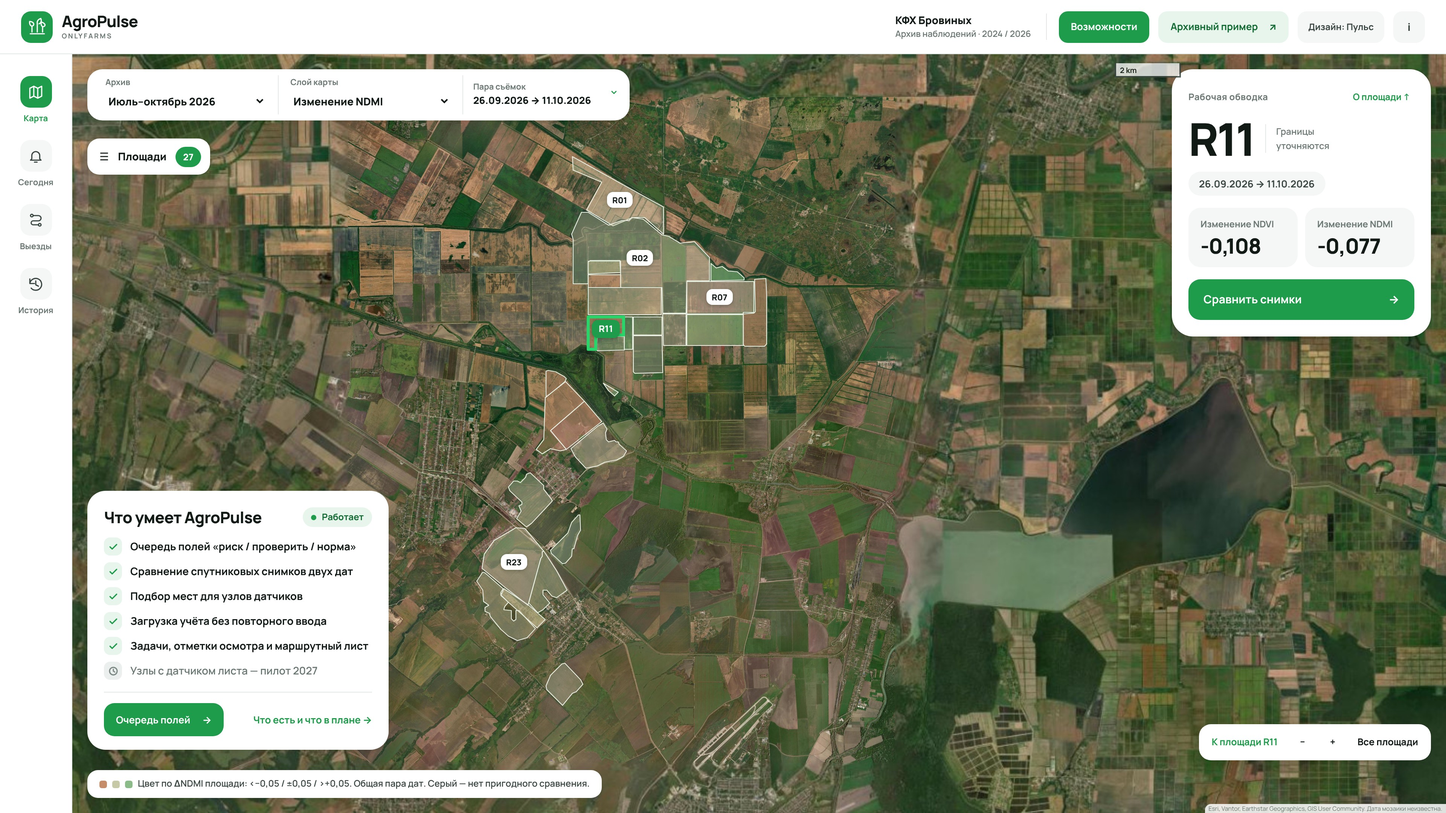
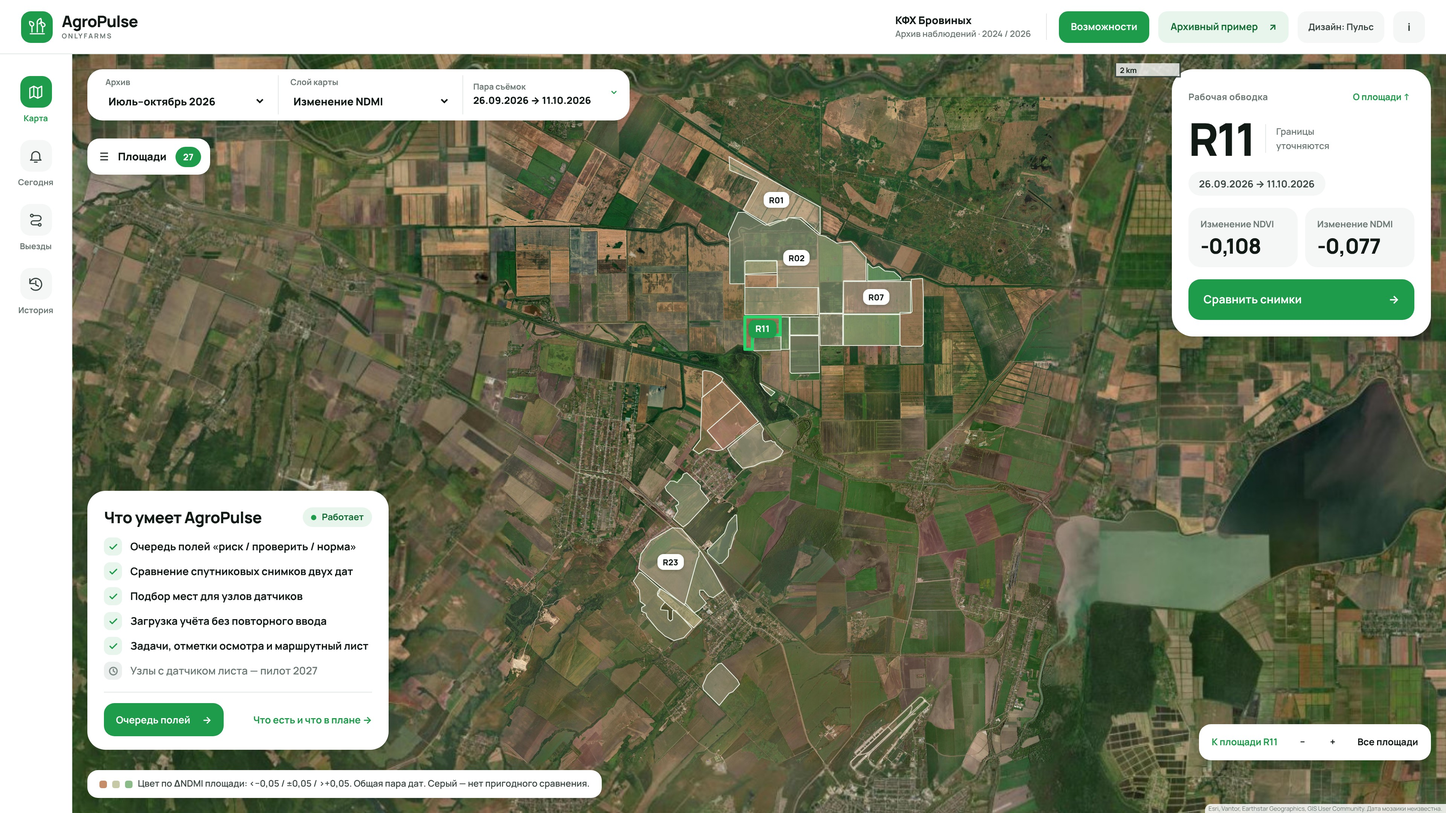
Keep all farm outlines clear of the capability card on laptop screens
The map camera ignored the Pulse capability card, so on 1280×720 it
covered 16 of 27 outlines (10 on 1366×768). map.js now adds the card's
width to the left fit padding when the card is visible; Хай-тек and
Атлас are unaffected. Verified 0 covered outlines from 1280×720 to
2560×1440, no overlaps, no console errors, full stage walk-through.

Also adds a five-minute pre-presentation checklist to NEW_LAPTOP.md and
recaptures the slide screenshots with the corrected framing.

Claude-Session: https://claude.ai/code/session_011skJBxcHVCmDy5rCEZ51dh

diff --git a/web/scouting/map.js b/web/scouting/map.js
@@ -18,7 +18,10 @@ window.ScoutingMap={create({bundle,onSelect,onSite,onLayer}){
     const top=(dock?.getBoundingClientRect().height||160)+32;
     const listOpen=document.body.classList.contains('map-list-open');
     const covered=card?Math.max(0,document.getElementById('geo-map').getBoundingClientRect().bottom-card.getBoundingClientRect().top):196;
-    const a=mobile?[20,top]:[listOpen?290:24,top],b=mobile?[20,covered+18]:[(card?.getBoundingClientRect().width||320)+44,108];
+    // Keep fields clear of the left overlay card when the design shows one (Pulse capability card).
+    const cap=document.querySelector('.capability-card'),capVisible=cap&&getComputedStyle(cap).display!=='none';
+    const capWidth=capVisible?cap.getBoundingClientRect().width+40:0;
+    const a=mobile?[20,top]:[Math.max(listOpen?290:24,capWidth),top],b=mobile?[20,covered+18]:[(card?.getBoundingClientRect().width||320)+44,108];
     const size=map.getSize(),budgets=[Math.max(0,size.x-120),Math.max(0,size.y-140)];
     for(let axis=0;axis<2;axis++){const total=a[axis]+b[axis];if(total>budgets[axis]&&total>0){const scale=budgets[axis]/total;a[axis]*=scale;b[axis]*=scale;}}
     return {paddingTopLeft:a,paddingBottomRight:b};

diff --git a/docs/NEW_LAPTOP.md b/docs/NEW_LAPTOP.md
@@ -47,6 +47,24 @@ py -3.13 scripts/start_scouting.py --check-only
 Задачи, планы и история реальных посещений доступны в том же интерфейсе.
 Журнал на новом ноутбуке начинается пустым.
 
+### Перед презентацией (5 минут)
+
+1. Остановите сервер (Ctrl+C), выполните `git pull --ff-only`, запустите `START_SCOUTING.cmd`.
+   В окне должно быть «92 satellite archives verified» и адрес `http://127.0.0.1:8770/scouting`.
+2. Откройте **http://127.0.0.1:8770/scouting?design=pulse** — ссылка сразу включает «Пульс»,
+   даже если раньше в этом браузере было выбрано другое оформление.
+3. Проверьте три экрана:
+   - карта: слева карточка «Что умеет AgroPulse», справа R11, все 27 площадей видны;
+   - «Возможности» в шапке → схема из презентации со статусами;
+   - «Сегодня» → «Пример», дата 20.05.2024: R11 и R07 — риск, R02 и R23 — проверить,
+     R01 и R09 — норма.
+4. На проекторе используйте масштаб браузера 100 %. Интерфейс проверен на экранах от
+   1280 × 720 до 2560 × 1440: элементы не перекрывают поля.
+5. Интернет для показа не нужен: шрифт, карты, снимки и погода хранятся локально.
+
+Что заявлено в презентации и что работает: [PRODUCT_CAPABILITIES.md](PRODUCT_CAPABILITIES.md).
+Скриншоты для слайдов: [assets/slides-2026-11-08](assets/slides-2026-11-08/README.md).
+
 Подробный [маршрут показа перед жюри](DEFENSE_WALKTHROUGH.md): после сохранения
 задачи открывается история места; «Посмотреть форму без записи» позволяет показать
 результат без фиктивного посещения. План выезда составляется по желанию.
